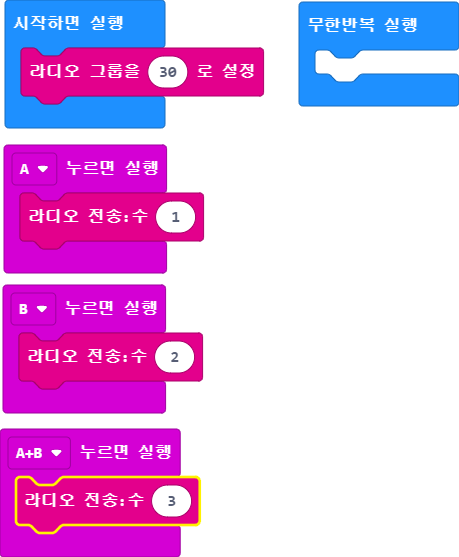
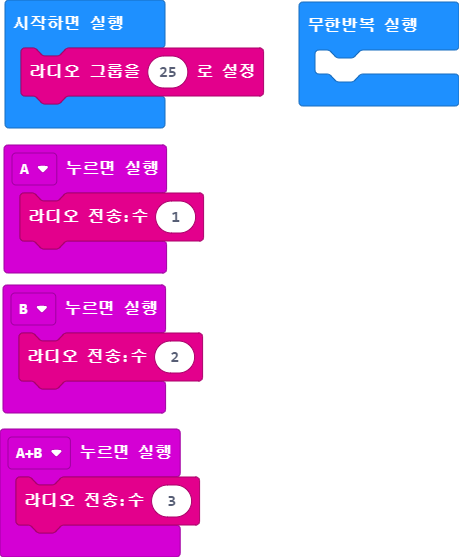
Update main.blocks, main.ts

Changed region(s): [[0.0305, 0.8546, 0.4575, 0.9461], [0.3355, 0.1221, 0.3965, 0.1526], [0.061, 0.9461, 0.122, 0.9767]]

diff --git a/main.ts b/main.ts
@@ -7,7 +7,7 @@ input.onButtonPressed(Button.AB, function () {
 input.onButtonPressed(Button.B, function () {
     radio.sendNumber(2)
 })
-radio.setGroup(30)
+radio.setGroup(25)
 basic.forever(function () {
 	
 })
